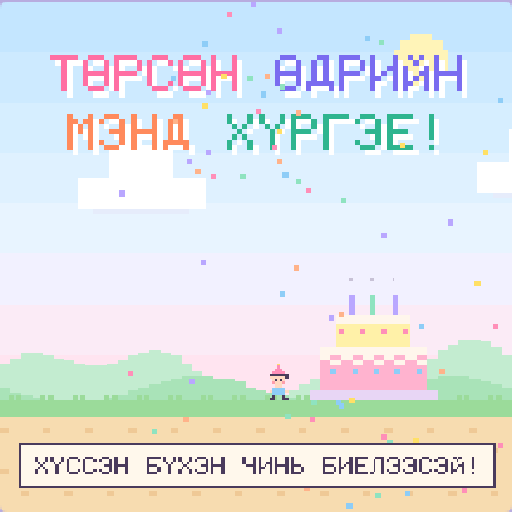
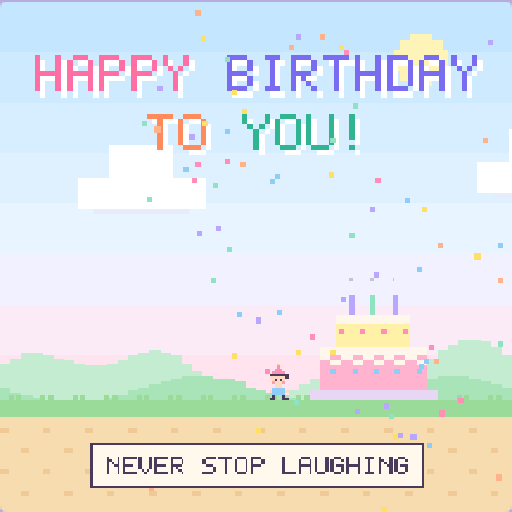
Switch texts to English
Claude-Session: https://claude.ai/code/session_01BHwxMzy1thTANyr3bVr9sP

diff --git a/index.html b/index.html
@@ -1,5 +1,5 @@
 <!DOCTYPE html>
-<html lang="mn">
+<html lang="en">
 <head>
 <meta charset="utf-8">
 <meta name="viewport" content="width=device-width,initial-scale=1,maximum-scale=1,user-scalable=no,viewport-fit=cover">
@@ -7,17 +7,17 @@
 <meta name="apple-mobile-web-app-capable" content="yes">
 <meta name="mobile-web-app-capable" content="yes">
 <meta name="apple-mobile-web-app-status-bar-style" content="default">
-<meta name="apple-mobile-web-app-title" content="Төрсөн өдөр">
-<meta name="description" content="Танд зориулсан бяцхан бэлэг байна ♥">
-<meta property="og:title" content="Төрсөн өдрийн мэнд хүргэе!">
-<meta property="og:description" content="Танд зориулсан бяцхан бэлэг байна ♥">
+<meta name="apple-mobile-web-app-title" content="Birthday">
+<meta name="description" content="A little gift made just for you ♥">
+<meta property="og:title" content="Happy Birthday!">
+<meta property="og:description" content="A little gift made just for you ♥">
 <meta property="og:image" content="/og.png">
 <meta property="og:type" content="website">
 <meta name="twitter:card" content="summary_large_image">
 <link rel="manifest" href="/manifest.webmanifest">
 <link rel="icon" href="/icon-192.png">
 <link rel="apple-touch-icon" href="/icon-192.png">
-<title>Төрсөн өдрийн мэнд</title>
+<title>Happy Birthday</title>
 <link rel="preconnect" href="https://fonts.googleapis.com">
 <link href="https://fonts.googleapis.com/css2?family=Press+Start+2P&display=swap" rel="stylesheet">
 <style>
@@ -50,7 +50,7 @@ canvas{display:block;width:100%;aspect-ratio:1;image-rendering:pixelated;image-r
 </head>
 <body>
 <div class="gb">
-<div class="bezel"><div class="led"><i></i>POWER</div><canvas id="c" width="192" height="192" aria-label="Төрсөн өдрийн мэндчилгээний тоглоом. Дэлгэц эсвэл A товч дарна."></canvas></div>
+<div class="bezel"><div class="led"><i></i>POWER</div><canvas id="c" width="192" height="192" aria-label="Birthday greeting game. Tap the screen or press A."></canvas></div>
 <div class="brand">PARTY BOY ♥</div>
 <div class="ctl"><div class="dpad"><span class="h"></span><span class="v"></span></div><div class="btns"><button class="btn b" id="bB" aria-label="B">B</button><button class="btn" id="bA" aria-label="A">A</button></div></div>
 <div class="sel"><span></span><span></span></div>
@@ -76,7 +76,8 @@ const F={
 'Ы':['#...#','#...#','#...#','##..#','#.#.#','#.#.#','##..#'],'Э':['.###.','#...#','....#','..###','....#','#...#','.###.'],
 'Ш':['#.#.#','#.#.#','#.#.#','#.#.#','#.#.#','#.#.#','#####'],'Я':['.####','#...#','#...#','.####','..#.#','.#..#','#...#'],
 '!':['..#..','..#..','..#..','..#..','..#..','.....','..#..'],'?':['.###.','#...#','....#','...#.','..#..','.....','..#..'],
-'♥':['.....','.#.#.','#####','#####','.###.','..#..','.....'],' ':['.....','.....','.....','.....','.....','.....','.....']};
+'♥':['.....','.#.#.','#####','#####','.###.','..#..','.....'],' ':['.....','.....','.....','.....','.....','.....','.....'],
+'A':['.###.', '#...#', '#...#', '#####', '#...#', '#...#', '#...#'],'B':['####.', '#...#', '#...#', '####.', '#...#', '#...#', '####.'],'C':['.###.', '#...#', '#....', '#....', '#....', '#...#', '.###.'],'D':['####.', '#...#', '#...#', '#...#', '#...#', '#...#', '####.'],'E':['#####', '#....', '#....', '####.', '#....', '#....', '#####'],'F':['#####', '#....', '#....', '####.', '#....', '#....', '#....'],'G':['.###.', '#...#', '#....', '#.###', '#...#', '#...#', '.###.'],'H':['#...#', '#...#', '#...#', '#####', '#...#', '#...#', '#...#'],'I':['.###.', '..#..', '..#..', '..#..', '..#..', '..#..', '.###.'],'J':['..###', '...#.', '...#.', '...#.', '...#.', '#..#.', '.##..'],'K':['#...#', '#..#.', '#.#..', '##...', '#.#..', '#..#.', '#...#'],'L':['#....', '#....', '#....', '#....', '#....', '#....', '#####'],'M':['#...#', '##.##', '#.#.#', '#.#.#', '#...#', '#...#', '#...#'],'N':['#...#', '##..#', '#.#.#', '#..##', '#...#', '#...#', '#...#'],'O':['.###.', '#...#', '#...#', '#...#', '#...#', '#...#', '.###.'],'P':['####.', '#...#', '#...#', '####.', '#....', '#....', '#....'],'Q':['.###.', '#...#', '#...#', '#...#', '#.#.#', '#..#.', '.##.#'],'R':['####.', '#...#', '#...#', '####.', '#.#..', '#..#.', '#...#'],'S':['.####', '#....', '#....', '.###.', '....#', '....#', '####.'],'T':['#####', '..#..', '..#..', '..#..', '..#..', '..#..', '..#..'],'U':['#...#', '#...#', '#...#', '#...#', '#...#', '#...#', '.###.'],'V':['#...#', '#...#', '#...#', '#...#', '#...#', '.#.#.', '..#..'],'W':['#...#', '#...#', '#...#', '#.#.#', '#.#.#', '##.##', '#...#'],'X':['#...#', '#...#', '.#.#.', '..#..', '.#.#.', '#...#', '#...#'],'Y':['#...#', '#...#', '.#.#.', '..#..', '..#..', '..#..', '..#..'],'Z':['#####', '....#', '...#.', '..#..', '.#...', '#....', '#####'],"'":['..#..', '..#..', '.....', '.....', '.....', '.....', '.....'],',':['.....', '.....', '.....', '.....', '.....', '..#..', '.#...'],'.':['.....', '.....', '.....', '.....', '.....', '.....', '..#..']};
 const r=(x,y,w,h,c)=>{g.fillStyle=c;g.fillRect(Math.round(x),Math.round(y),w,h)};
 const tw=(s,k)=>s.length*6*k-k;
 const txt=(s,x,y,k,c,sh)=>{[...s].forEach((ch,i)=>{const gl=F[ch];if(!gl)return;gl.forEach((row,ry)=>{[...row].forEach((p,rx)=>{if(p==='#'){if(sh)r(x+i*6*k+rx*k+k,y+ry*k+k,k,k,sh);r(x+i*6*k+rx*k,y+ry*k,k,k,c)}})})})};
@@ -87,10 +88,10 @@ const LEG=[['..k...k..','.kk...kk.'],['...k.k...','..kk.kk..']];
 const spr=(rows,x,y,flip)=>rows.forEach((row,ry)=>[...row].forEach((c,rx)=>{if(c!=='.')r(x+(flip?8-rx:rx),y+ry,1,1,P[c])}));
 const G=150,BY=102;
 const blocks=[36,76,116,156].map(x=>({x,used:false,bump:0}));
-const L1=19,L2=25;
-const words=[{s:'ТӨРСӨН',tx:L1,ty:20,c:'#ff6fa3'},{s:'ӨДРИЙН',tx:L1+84,ty:20,c:'#7a6cf0'},{s:'МЭНД',tx:L2,ty:42,c:'#ff8a5c'},{s:'ХҮРГЭЕ!',tx:L2+60,ty:42,c:'#2fb58f'}];
+const L1=13,L2=55;
+const words=[{s:'HAPPY',tx:L1,ty:20,c:'#ff6fa3'},{s:'BIRTHDAY',tx:L1+72,ty:20,c:'#7a6cf0'},{s:'TO',tx:L2,ty:42,c:'#ff8a5c'},{s:'YOU!',tx:L2+36,ty:42,c:'#2fb58f'}];
 words.forEach(w=>{w.on=false;w.x=0;w.y=0});
-const wishes=['ИНЭЭД ХӨӨР ЧИНЬ БҮҮ ТАСРАГ','ЭРҮҮЛ ЭНХ ЭРЧ ХҮЧТЭЙ БАЙГААРАЙ','ЭНЭ ЖИЛ ХАМГИЙН ГОЁ ЖИЛ ЧИНЬ!','МӨРӨӨДӨЛ ЧИНЬ БИЕЛЭХ БОЛТУГАЙ','АЗ ЖАРГАЛ ҮРГЭЛЖ ДЭРГЭД ЧИНЬ'];
+const wishes=['NEVER STOP LAUGHING','STAY HEALTHY AND STRONG','THIS YEAR WILL BE YOUR BEST!','MAY ALL YOUR DREAMS COME TRUE','HAPPINESS IS ALWAYS NEAR YOU'];
 const kid={x:14,y:G,vy:0,ground:true,dir:1,f:0,target:36};
 const cake={x:240,tx:140,lit:true,on:false};
 let state='start',hits=0,t=0,wait=0,wish=-1,blowPending=false,ac=null;
@@ -159,7 +160,7 @@ bits.forEach(p=>r(p.x,p.y,2,2,p.c));
 if(state==='party'&&wish>=0){const s=wishes[wish],w=tw(s,1)+12,x=Math.round((192-w)/2);
 r(x,166,w,17,'#4a3b5c');r(x+1,167,w-2,15,'#fff8ec');txt(s,x+6,171,1,'#4a3b5c')}
 if(state==='start'){r(18,58,156,74,'#4a3b5c');r(20,60,152,70,'#fff8ec');r(20,60,152,3,'#ffd9ea');
-ctxt('ТАНД ЗОРИУЛАВ',70,1,'#9a87d6');ctxt('♥ БЭЛЭГ ♥',84,2,'#ff6fa3','#ffd9ea');if((t>>5)%2)ctxt('ДАРЖ ЭХЛЭ',112,1,'#4a3b5c')}}
+ctxt('MADE FOR YOU',70,1,'#9a87d6');ctxt('♥ A GIFT ♥',84,2,'#ff6fa3','#ffd9ea');if((t>>5)%2)ctxt('TAP TO START',112,1,'#4a3b5c')}}
 function loop(){update();draw();requestAnimationFrame(loop)}
 loop();
 const A=document.getElementById('bA'),B=document.getElementById('bB');

diff --git a/README.md b/README.md
@@ -1,4 +1,4 @@
-# Төрсөн өдрийн карт
+# Happy Birthday card
 
 Пастел пиксел стильтэй, утсанд зориулсан төрсөн өдрийн мэндчилгээ-тоглоом.
 
